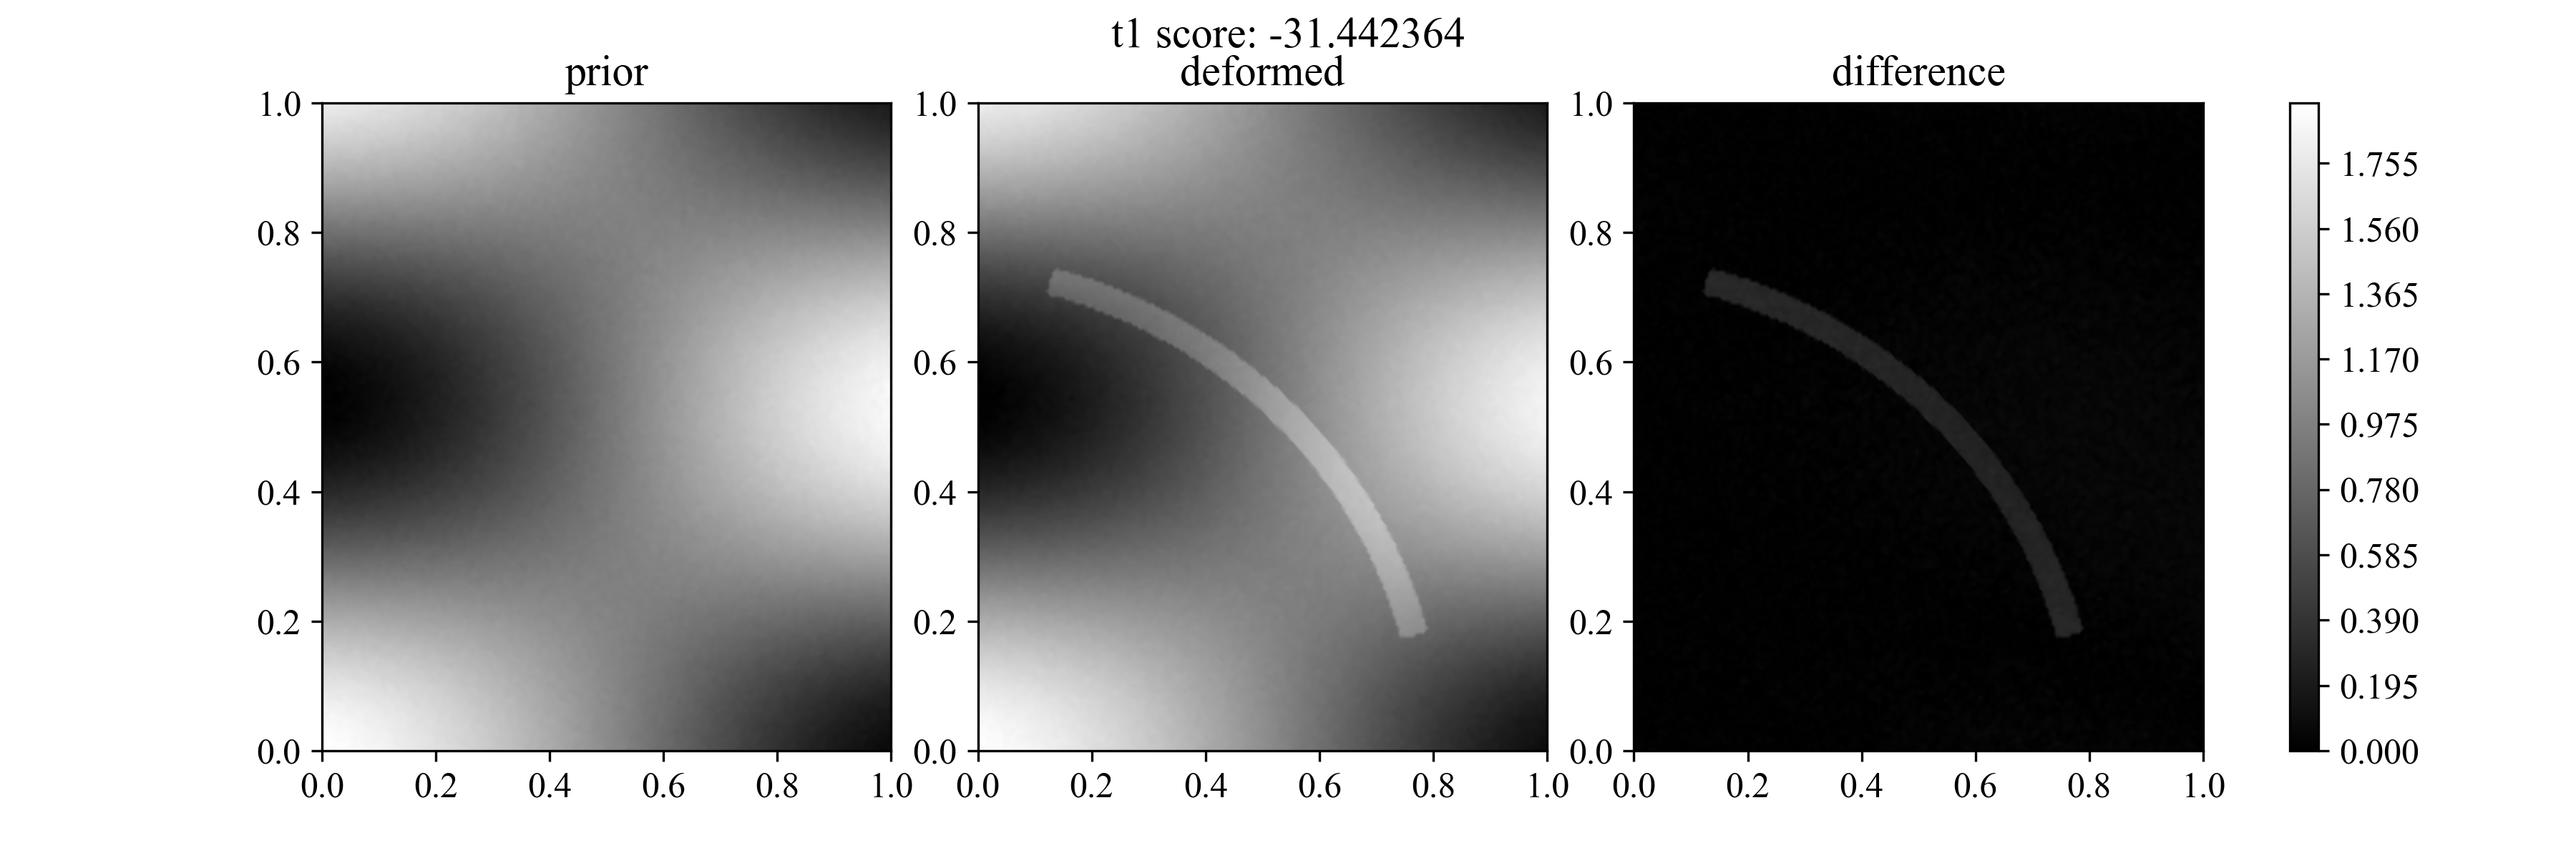
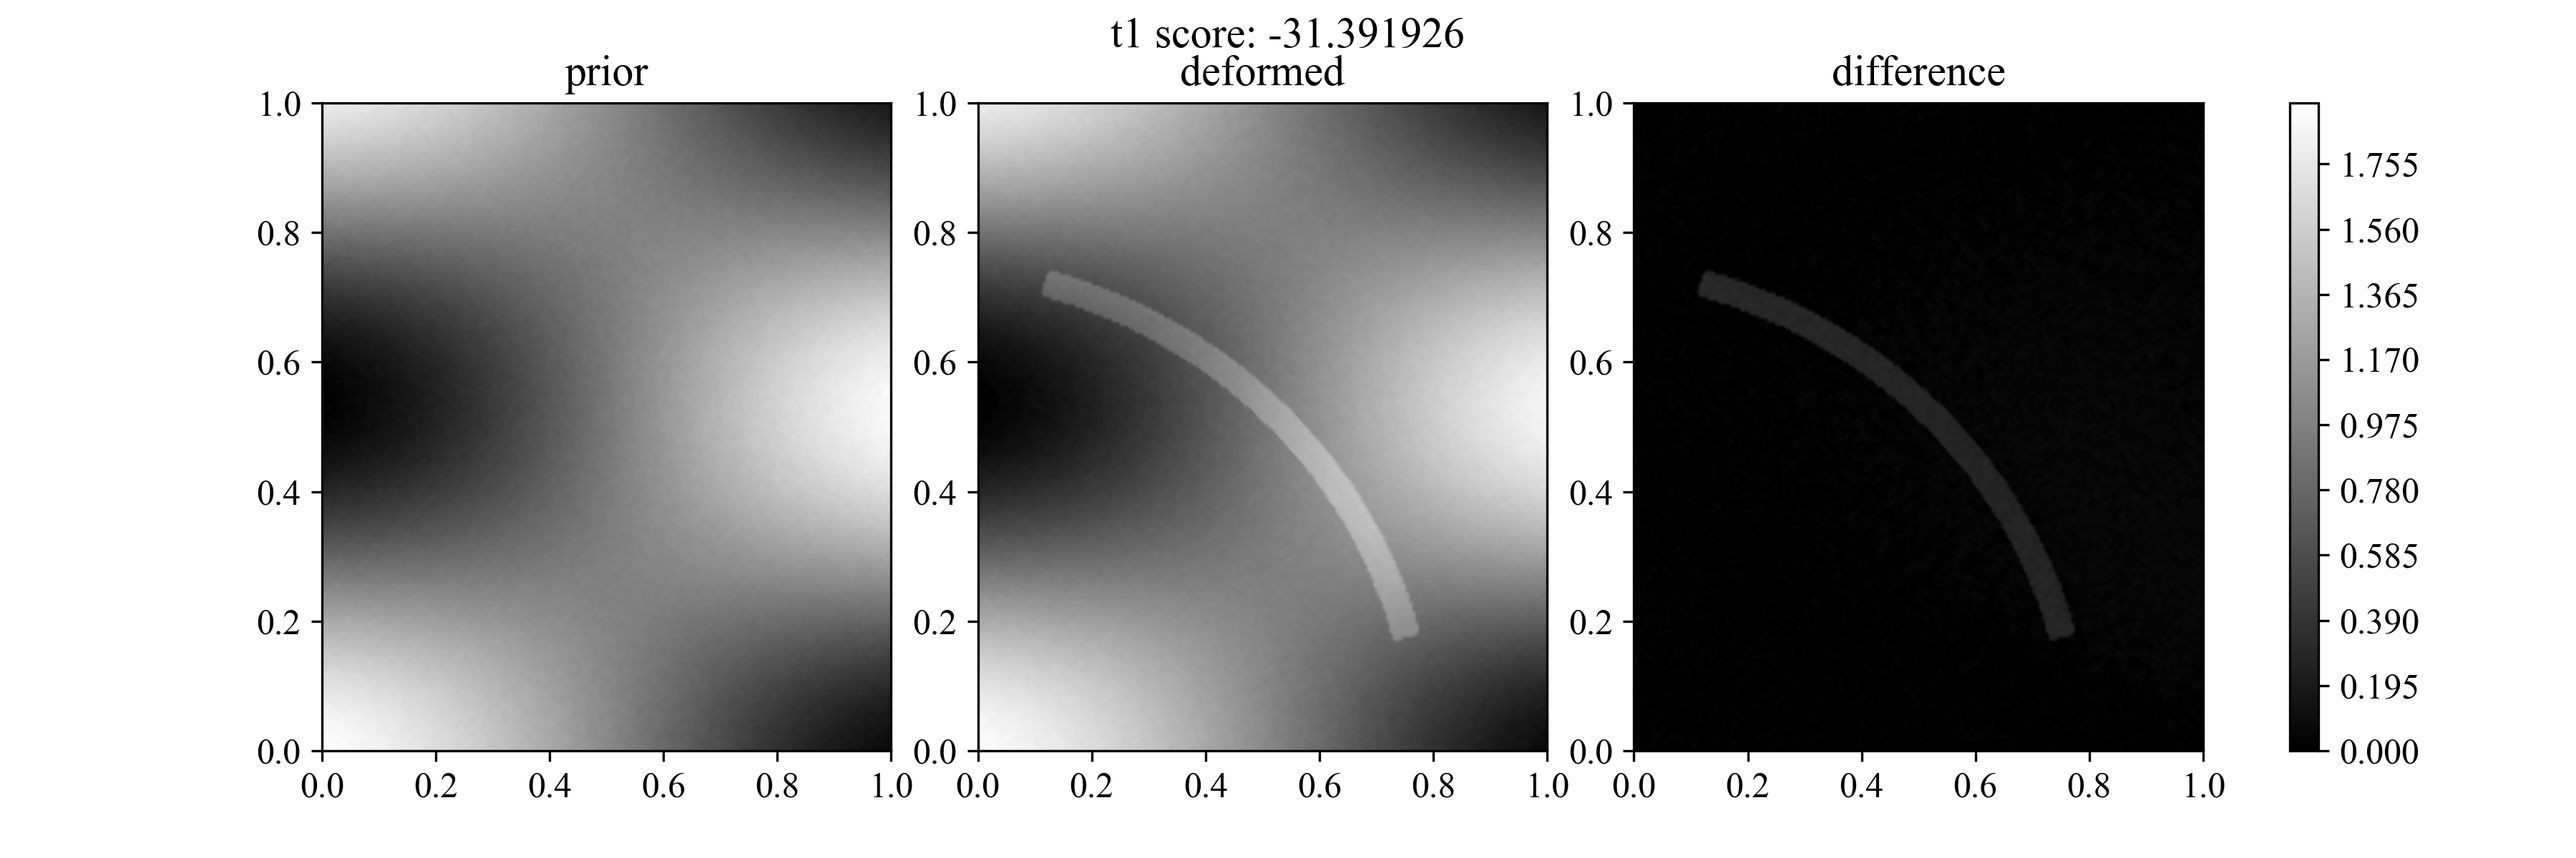
ga fin

diff --git a/Genetic Algorithm Image Alignment/imageUtilityFunctions.py b/Genetic Algorithm Image Alignment/imageUtilityFunctions.py
@@ -514,8 +514,8 @@ def plot_2curfall2(ims,color_map=cm.gray):
     axess[0,0].set_ylabel('prior')
     axess[1,0].set_ylabel('deformed')
     axess[2,0].set_ylabel('difference')
-    sclmap=mpl.cm.ScalarMappable(norm=mpl.colors.Normalize(vmax=dmax,vmin=dmin))
-    diffmap=mpl.cm.ScalarMappable(norm=mpl.colors.Normalize(vmax=dmax_diff,vmin=dmin_diff))
+    sclmap=mpl.cm.ScalarMappable(norm=mpl.colors.Normalize(vmax=dmax,vmin=dmin),cmap=color_map)
+    diffmap=mpl.cm.ScalarMappable(norm=mpl.colors.Normalize(vmax=dmax_diff,vmin=dmin_diff),cmap=color_map)
     fig.colorbar(sclmap, cax=axess[0,4], shrink=0.5, aspect=10, ticks=list(np.linspace(tspan[0],tspan[1],num=5)))
     fig.colorbar(sclmap, cax=axess[1,4], shrink=0.5, aspect=10, ticks=list(np.linspace(tspan[0],tspan[1],num=5)))
     fig.colorbar(diffmap, cax=axess[2,4], shrink=0.5, aspect=10, ticks=list(np.linspace(0.00,.25,num=5)))
